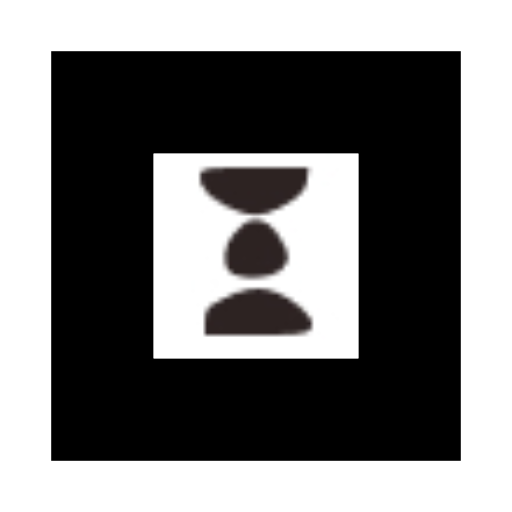
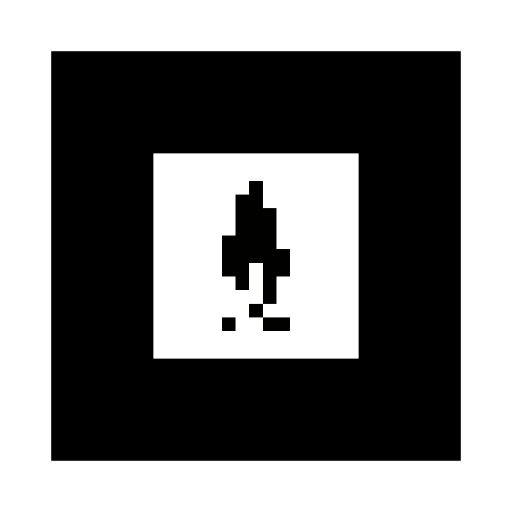
Atualiza imagem do marcador na tela de RA e reduz modelo em 30%.
Troca lampiao-marker.png pelo novo padrão e ajusta a escala do vulto de 1.85 para 1.295.

Changed region(s): [[0.375, 0.3125, 0.625, 0.6562]]

diff --git a/export/ar.html b/export/ar.html
@@ -50,7 +50,7 @@
   <img id="ar-photo-modal-img" alt="Foto AR">
 </div>
 <script>
-  window.__AR_CONFIG__ = {"showPrimaryModel":false,"markerPattern":"markers/lampiao.patt","markerImage":"markers/lampiao-marker.png","markerSize":1,"scale":[1,1,1],"position":[0,0,0],"rotation":[0,0,0],"backgroundModels":[{"src":"models/vulto.glb","scale":[1.85,1.85,1.85],"position":[0,0.002,0],"rotation":[-90,0,0]}],"title":"O lampião e suas sombras"};
+  window.__AR_CONFIG__ = {"showPrimaryModel":false,"markerPattern":"markers/lampiao.patt","markerImage":"markers/lampiao-marker.png","markerSize":1,"scale":[1,1,1],"position":[0,0,0],"rotation":[0,0,0],"backgroundModels":[{"src":"models/vulto.glb","scale":[1.295,1.295,1.295],"position":[0,0.002,0],"rotation":[-90,0,0]}],"title":"O lampião e suas sombras"};
 </script>
 <script src="js/ar-runtime.js"></script>
 <script>

diff --git a/export/ra.html b/export/ra.html
@@ -44,7 +44,7 @@
   <img id="ar-photo-modal-img" alt="Foto AR">
 </div>
 <script>
-  window.__AR_CONFIG__ = {"showPrimaryModel":false,"markerPattern":"markers/lampiao.patt","markerImage":"markers/lampiao-marker.png","markerSize":1,"scale":[1,1,1],"position":[0,0,0],"rotation":[0,0,0],"backgroundModels":[{"src":"models/vulto.glb","scale":[1.85,1.85,1.85],"position":[0,0.002,0],"rotation":[-90,0,0]}],"title":"O lampião e suas sombras"};
+  window.__AR_CONFIG__ = {"showPrimaryModel":false,"markerPattern":"markers/lampiao.patt","markerImage":"markers/lampiao-marker.png","markerSize":1,"scale":[1,1,1],"position":[0,0,0],"rotation":[0,0,0],"backgroundModels":[{"src":"models/vulto.glb","scale":[1.295,1.295,1.295],"position":[0,0.002,0],"rotation":[-90,0,0]}],"title":"O lampião e suas sombras"};
 </script>
 <script src="js/ar-runtime.js"></script>
 <script>

diff --git a/lib/pieces.ts b/lib/pieces.ts
@@ -39,7 +39,7 @@ export type Piece = {
 /** Fantasma deitado no plano do marcador. */
 const AR_GHOST_FLAT_ROTATION: [number, number, number] = [-90, 0, 0];
 /** Escala ampliada — um único vulto cobrindo o marcador. */
-const AR_GHOST_SCALE = 1.85;
+const AR_GHOST_SCALE = 1.295;
 
 export const pieces: Piece[] = [
   {

diff --git a/ra-kit/index.html b/ra-kit/index.html
@@ -43,7 +43,7 @@
   <img id="ar-photo-modal-img" alt="Foto AR">
 </div>
 <script>
-  window.__AR_CONFIG__ = {"showPrimaryModel":false,"markerPattern":"markers/lampiao.patt","markerImage":"markers/lampiao-marker.png","markerSize":1,"scale":[1,1,1],"position":[0,0,0],"rotation":[0,0,0],"backgroundModels":[{"src":"models/vulto.glb","scale":[1.85,1.85,1.85],"position":[0,0.002,0],"rotation":[-90,0,0]}],"title":"O lampião e suas sombras"};
+  window.__AR_CONFIG__ = {"showPrimaryModel":false,"markerPattern":"markers/lampiao.patt","markerImage":"markers/lampiao-marker.png","markerSize":1,"scale":[1,1,1],"position":[0,0,0],"rotation":[0,0,0],"backgroundModels":[{"src":"models/vulto.glb","scale":[1.295,1.295,1.295],"position":[0,0.002,0],"rotation":[-90,0,0]}],"title":"O lampião e suas sombras"};
 </script>
 <script src="js/ar-runtime.js"></script>
 <script>